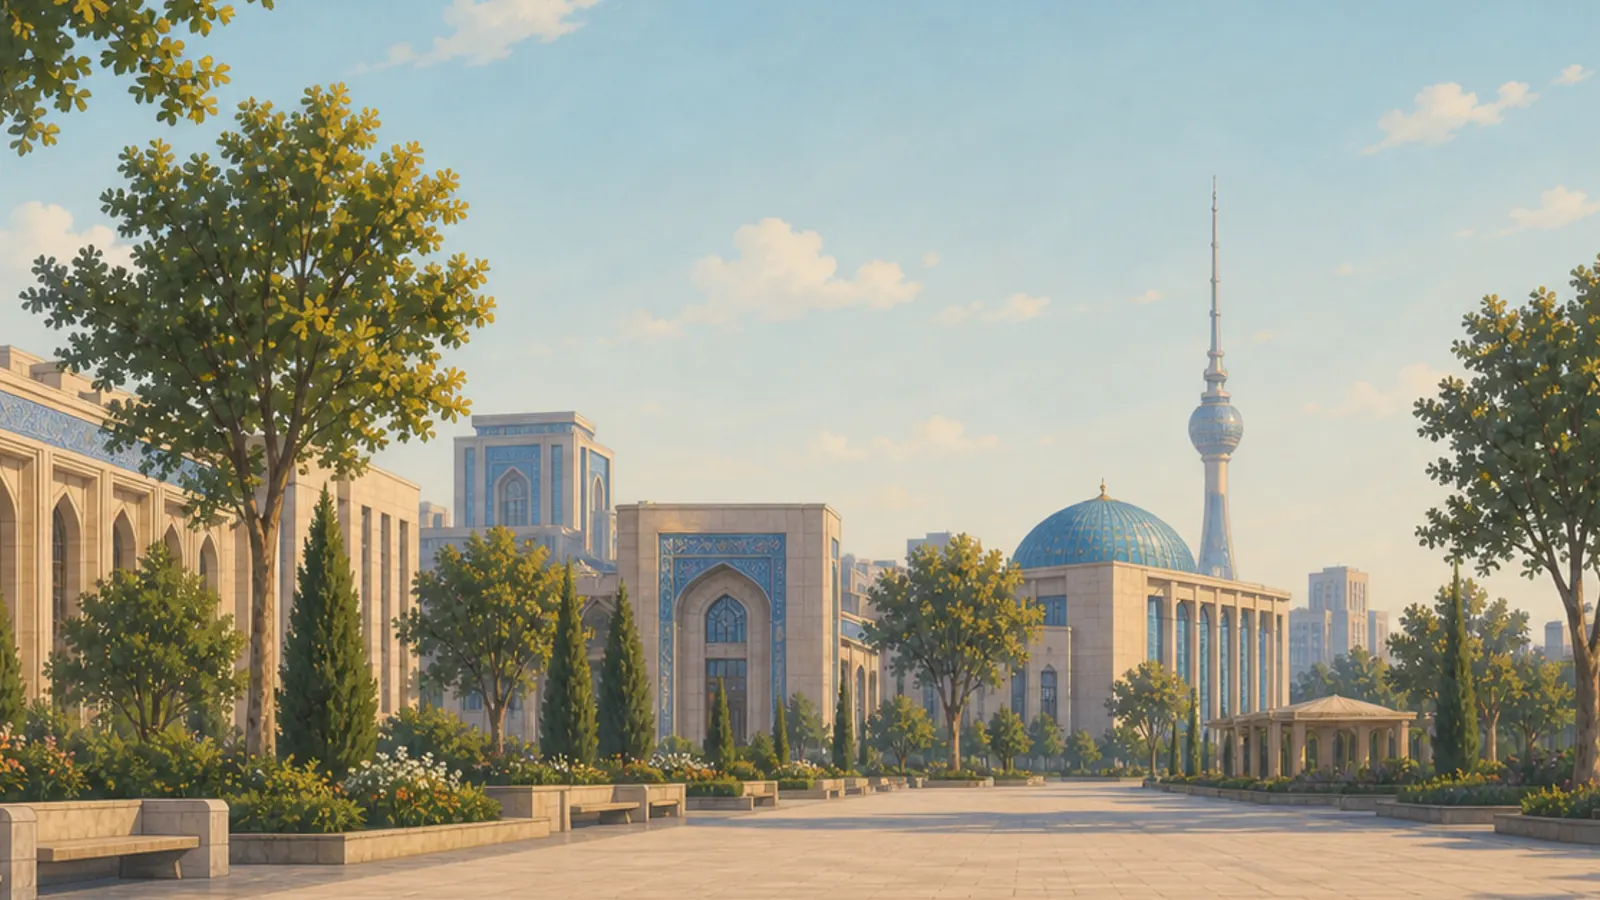
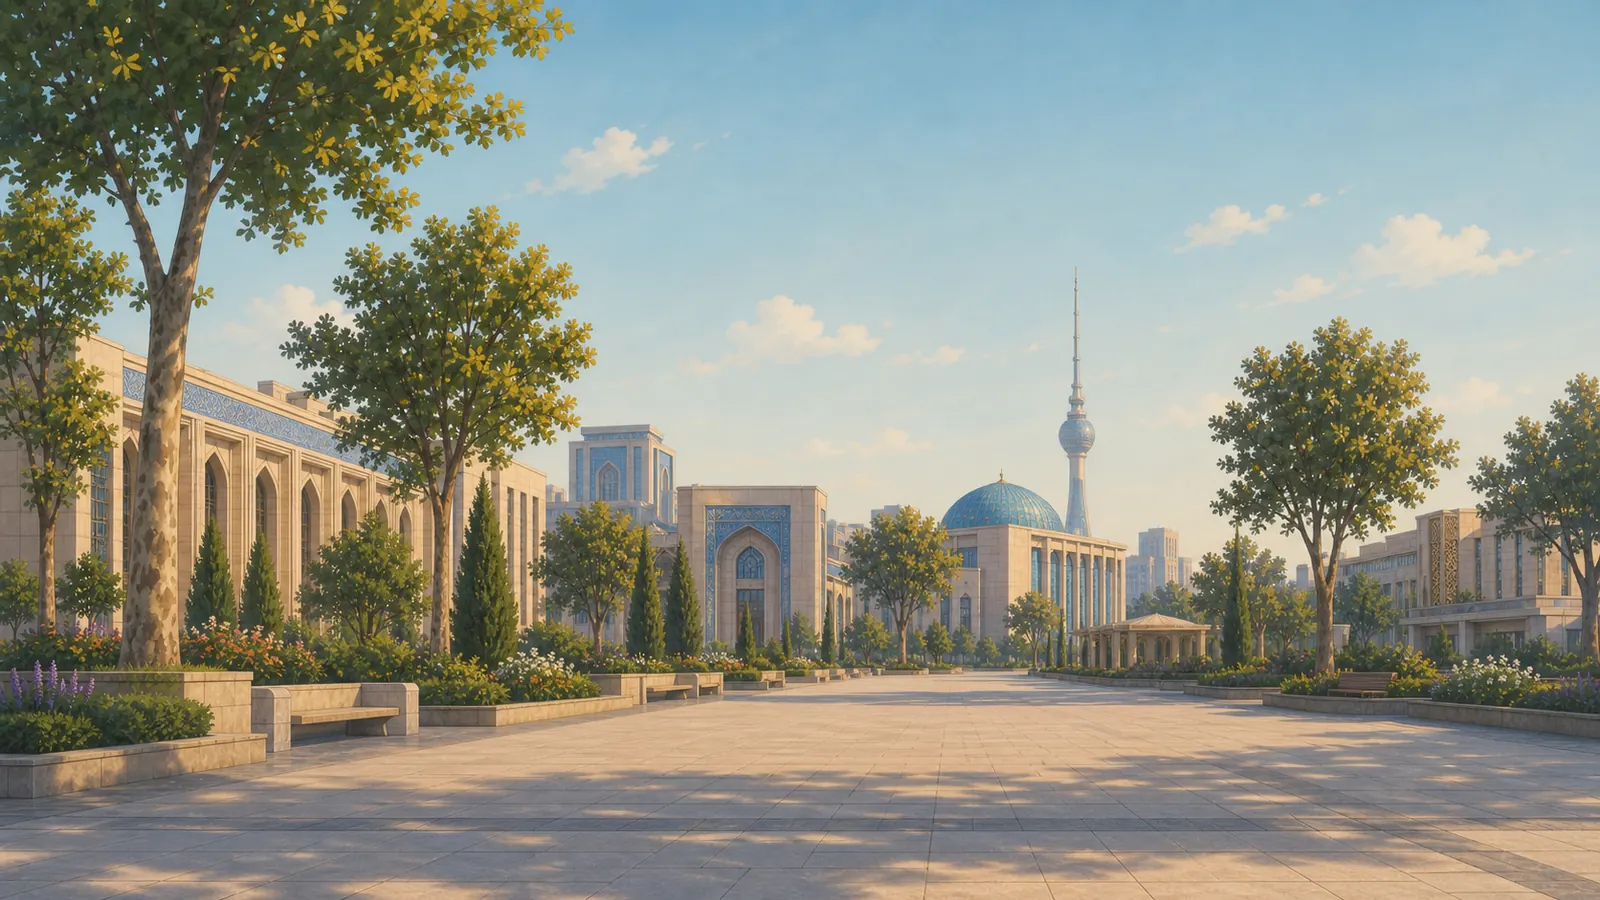
feat: calibrate stage metadata against full city paintings

diff --git a/src/lib/world/stage-layout.test.ts b/src/lib/world/stage-layout.test.ts
@@ -1,0 +1,72 @@
+import { describe, expect, it } from "vitest";
+import { stageSchema, readableCountryPackSchema } from "../content/schema";
+import { registeredCountryPacks } from "@/content/countries/registry";
+import { stageLayout, blendStageLayout } from "./stage-layout";
+
+const defaults = stageSchema.parse({});
+
+describe("stage layout", () => {
+  it.each([[320, 568], [390, 844], [1440, 900], [2560, 1080]])("anchors %i × %i without vertical centering", (w, h) => {
+    for (const [iw, ih] of [[3600, 1200], [1600, 900], [1600, 1067]]) {
+      const result = stageLayout(w, h, iw, ih, defaults);
+      expect(result.imageScale * iw).toBeCloseTo(w);
+      expect(result.imageX).toBe(0);
+      expect(result.imageY + defaults.groundLineY * ih * result.imageScale).toBeCloseTo(result.groundY);
+      expect(result.groundY).toBeCloseTo(h * (w <= 600 ? 0.8 : 0.86));
+      expect(result.personHeightPx).toBeCloseTo(defaults.personHeightFrac * ih * result.imageScale);
+      expect(result.pxPerMetre * 1.78).toBeCloseTo(result.personHeightPx);
+    }
+  });
+  it("leaves sky space above a short panorama, including at the mobile boundary", () => {
+    expect(stageLayout(390, 844, 3600, 1200, defaults).imageY).toBeGreaterThan(500);
+    expect(stageLayout(600, 900, 1600, 900, defaults).groundY).toBe(720);
+    expect(stageLayout(601, 900, 1600, 900, defaults).groundY).toBe(774);
+  });
+  it("rejects unmeasured or invalid dimensions", () => {
+    for (const value of [0, -1, NaN, Infinity]) {
+      expect(() => stageLayout(value, 900, 1600, 900, defaults)).toThrow(RangeError);
+      expect(() => stageLayout(1440, 900, 1600, value, defaults)).toThrow(RangeError);
+    }
+  });
+  it("blends from the displayed layout for exactly 400 ms with consistent ground and scale", () => {
+    const from = stageLayout(390, 844, 1600, 900, defaults);
+    const to = stageLayout(1440, 900, 1600, 1067, stageSchema.parse({personHeightFrac: 0.2}));
+    expect(blendStageLayout(from, to, -10).personHeightPx).toBe(from.personHeightPx);
+    expect(blendStageLayout(from, to, 200).personHeightPx).toBeCloseTo((from.personHeightPx + to.personHeightPx) / 2);
+    for (const ms of [0, 100, 200, 399, 400, 500]) {
+      const frame = blendStageLayout(from, to, ms);
+      expect(frame.imageY - to.imageY).toBeCloseTo(frame.groundY - to.groundY);
+      expect(frame.pxPerMetre * 1.78).toBeCloseTo(frame.personHeightPx);
+    }
+    expect(blendStageLayout(from, to, 400)).toEqual(to);
+    expect(blendStageLayout(from, to, 800)).toEqual(to);
+    // A second transition starts from the current interpolated height, not an old target.
+    const mid = blendStageLayout(from, to, 150);
+    expect(blendStageLayout(mid, from, 0).personHeightPx).toBe(mid.personHeightPx);
+  });
+});
+
+describe("backward compatible stage metadata", () => {
+  it("applies every specified default, including partial nested blocks", () => {
+    expect(defaults).toEqual({ groundLineY: 0.82, horizonY: 0.55, personHeightFrac: 0.28,
+      walkableX: [0.15, 0.85], palette: ["#b9a27a", "#6f7a5a", "#2e3a4f"], lightDir: "left",
+      parallax: {far: 0.35, mid: 0.7, near: 1.25} });
+    expect(stageSchema.parse({parallax: {mid: 0.6}}).parallax).toEqual({far: 0.35, mid: 0.6, near: 1.25});
+  });
+  it("validates all 16 packs with and without stage blocks", () => {
+    const packs = registeredCountryPacks();
+    expect(packs).toHaveLength(16);
+    for (const pack of packs) {
+      expect(readableCountryPackSchema.safeParse(pack).success).toBe(true);
+      const legacy = JSON.parse(JSON.stringify(pack));
+      for (const zone of legacy.route.zones) delete zone.stage;
+      const parsed = readableCountryPackSchema.parse(legacy);
+      if (parsed.schemaVersion === 1) throw new Error("Expected a route pack");
+      expect(parsed.route.zones.every((zone) => JSON.stringify(zone.stage) === JSON.stringify(defaults))).toBe(true);
+    }
+  });
+  it.each([{groundLineY: 1.1}, {personHeightFrac: 0}, {walkableX: [0.9, 0.1]},
+    {palette: ["red", "blue", "black"]}, {parallax: {near: -1}}, {lightDir: "bottom"}])("rejects malformed calibration %j", (value) => {
+    expect(stageSchema.safeParse(value).success).toBe(false);
+  });
+});

diff --git a/src/content/countries/tbilisi.v1.ts b/src/content/countries/tbilisi.v1.ts
@@ -3,11 +3,11 @@ import { createPhase2CountryPack } from "./phase2-factory";
 export const tbilisiCountryPackV1 = createPhase2CountryPack({
   packId: "tbilisi-v1", countryCode: "GE", countryName: "Georgia", cityName: "Tbilisi", timeZone: "Asia/Tbilisi",
   zones: [
-    { id: "rustaveli-arrival", label: "Rustaveli Avenue", weather: "clear", palette: ["#70b2c5", "#e1c291", "#52646d"] },
-    { id: "balcony-lanes", label: "Wooden balcony lanes", weather: "breeze", palette: ["#82b8bc", "#dfbd89", "#755947"] },
-    { id: "dry-bridge", label: "Dry Bridge market", weather: "haze", palette: ["#75a7b3", "#d8a365", "#4b5558"] },
-    { id: "bakery-courtyard", label: "Bakery courtyard", weather: "golden", palette: ["#92b3aa", "#e4a15e", "#8b4d39"] },
-    { id: "abanotubani-evening", label: "Abanotubani and Narikala", weather: "evening", palette: ["#4f6688", "#c87c67", "#2c3b55"] },
+    { id: "rustaveli-arrival", label: "Rustaveli Avenue", weather: "clear", palette: ["#70b2c5", "#e1c291", "#52646d"], stage: { groundLineY: 0.84, horizonY: 0.70, personHeightFrac: 0.20, palette: ["#b7a48b", "#677851", "#465963"], lightDir: "left" } },
+    { id: "balcony-lanes", label: "Wooden balcony lanes", weather: "breeze", palette: ["#82b8bc", "#dfbd89", "#755947"], stage: { groundLineY: 0.89, horizonY: 0.66, personHeightFrac: 0.21, palette: ["#c4ad88", "#74805a", "#5d605d"], lightDir: "left" } },
+    { id: "dry-bridge", label: "Dry Bridge market", weather: "haze", palette: ["#75a7b3", "#d8a365", "#4b5558"], stage: { groundLineY: 0.85, horizonY: 0.62, personHeightFrac: 0.23, walkableX: [0.35, 0.75], palette: ["#bba079", "#77714c", "#454c48"], lightDir: "left" } },
+    { id: "bakery-courtyard", label: "Bakery courtyard", weather: "golden", palette: ["#92b3aa", "#e4a15e", "#8b4d39"], stage: { groundLineY: 0.87, horizonY: 0.60, personHeightFrac: 0.24, palette: ["#b79772", "#757344", "#4d4840"], lightDir: "left" } },
+    { id: "abanotubani-evening", label: "Abanotubani and Narikala", weather: "evening", palette: ["#4f6688", "#c87c67", "#2c3b55"], stage: { groundLineY: 0.88, horizonY: 0.61, personHeightFrac: 0.20, palette: ["#ad8069", "#796c65", "#454653"], lightDir: "left" } },
   ],
   encounter: { npcId: "tbilisi-host", locationLabel: "A carved balcony", phrase: { original: "კეთილი იყოს თქვენი მობრძანება", transliteration: "Ketili iqos tkveni mobrdzaneba", gloss: "Welcome", pronunciation: "keh-TEE-lee EE-khos tkveh-nee mobr-dzah-NEH-bah" }, exchange: ["Ketili iqos tkveni mobrdzaneba — welcome.", "Every balcony seems to be telling a story.", "Stay long enough and someone will tell you one.", "I have a few streets left to listen."] },
   postcardTitle: "Tbilisi in warm light", postcardCopy: "We followed Tbilisi’s balconies and sulfur-bath domes toward Narikala.",

diff --git a/src/content/countries/tashkent.v4.ts b/src/content/countries/tashkent.v4.ts
@@ -7,11 +7,11 @@ export const tashkentCountryPackV4 = createPhase2CountryPack({
   cityName: "Tashkent",
   timeZone: "Asia/Tashkent",
   zones: [
-    { id: "arrival-boulevard", label: "Arrival boulevard", weather: "clear", palette: ["#70b6ca", "#d9c68d", "#315c63"] },
-    { id: "mahalla-street", label: "Mahalla street", weather: "breeze", palette: ["#81bcc5", "#e5c58a", "#3f675f"] },
-    { id: "chorsu-market", label: "Chorsu market", weather: "haze", palette: ["#78aeb8", "#e0b66f", "#285b66"] },
-    { id: "plov-cafe", label: "Plov café", weather: "golden", palette: ["#91b9b0", "#edae64", "#995b3d"] },
-    { id: "evening-landmark", label: "Hazrati Imam at dusk", weather: "evening", palette: ["#516b8d", "#d38a66", "#243653"] },
+    { id: "arrival-boulevard", label: "Arrival boulevard", weather: "clear", palette: ["#70b6ca", "#d9c68d", "#315c63"], stage: { groundLineY: 0.86, horizonY: 0.73, personHeightFrac: 0.21, palette: ["#c4b394", "#79825c", "#566879"], lightDir: "left" } },
+    { id: "mahalla-street", label: "Mahalla street", weather: "breeze", palette: ["#81bcc5", "#e5c58a", "#3f675f"], stage: { groundLineY: 0.87, horizonY: 0.66, personHeightFrac: 0.18, palette: ["#c7b38f", "#7d855b", "#536579"], lightDir: "left" } },
+    { id: "chorsu-market", label: "Chorsu market", weather: "haze", palette: ["#78aeb8", "#e0b66f", "#285b66"], stage: { groundLineY: 0.85, horizonY: 0.64, personHeightFrac: 0.21, palette: ["#c2ac84", "#78805a", "#4f6575"], lightDir: "left" } },
+    { id: "plov-cafe", label: "Plov café", weather: "golden", palette: ["#91b9b0", "#edae64", "#995b3d"], stage: { groundLineY: 0.85, horizonY: 0.60, personHeightFrac: 0.19, palette: ["#c4a87f", "#7f8054", "#59677a"], lightDir: "left" } },
+    { id: "evening-landmark", label: "Hazrati Imam at dusk", weather: "evening", palette: ["#516b8d", "#d38a66", "#243653"], stage: { groundLineY: 0.88, horizonY: 0.64, personHeightFrac: 0.20, palette: ["#ad8a76", "#7e6b61", "#444e69"], lightDir: "right" } },
   ],
   encounter: {
     npcId: "tashkent-host",

diff --git a/src/lib/world/stage-layout.ts b/src/lib/world/stage-layout.ts
@@ -1,0 +1,51 @@
+import type { ZoneStage } from "../content/schema";
+
+export type StageLayout = {
+  imageScale: number;
+  imageX: number;
+  imageY: number;
+  groundY: number;
+  personHeightPx: number;
+  pxPerMetre: number;
+};
+
+/** Image fractions become CSS pixels. Width-fit deliberately never crops vertically. */
+export function stageLayout(
+  viewportW: number, viewportH: number, imageW: number, imageH: number, stage: ZoneStage,
+): StageLayout {
+  if (![viewportW, viewportH, imageW, imageH].every((n) => Number.isFinite(n) && n > 0)) {
+    throw new RangeError("Stage dimensions must be finite and positive");
+  }
+  const imageScale = viewportW / imageW;
+  const groundY = viewportH * (viewportW <= 600 ? 0.80 : 0.86);
+  const personHeightPx = stage.personHeightFrac * imageH * imageScale;
+  return {
+    imageScale,
+    imageX: 0,
+    imageY: groundY - stage.groundLineY * imageH * imageScale,
+    groundY,
+    personHeightPx,
+    pxPerMetre: personHeightPx / 1.78,
+  };
+}
+
+/** Only presentation changes: no route time, distance or authoritative inputs change. */
+export function blendStageLayout(from: StageLayout, to: StageLayout, elapsedMs: number): StageLayout {
+  const t = Math.min(1, Math.max(0, elapsedMs / 400));
+  const weight = t * t * (3 - 2 * t);
+  const groundY = from.groundY + (to.groundY - from.groundY) * weight;
+  const personHeightPx = from.personHeightPx + (to.personHeightPx - from.personHeightPx) * weight;
+  return { ...to, groundY, imageY: to.imageY + groundY - to.groundY, personHeightPx, pxPerMetre: personHeightPx / 1.78 };
+}
+
+/** Published by the world that actually drew this zone, never by a predicted zone. */
+export type StageFrame = {
+  assetVersion: string;
+  zoneId: string;
+  viewportW: number;
+  viewportH: number;
+  imageW: number;
+  imageH: number;
+  stage: ZoneStage;
+  layout: StageLayout;
+};

diff --git a/src/lib/content/schema.ts b/src/lib/content/schema.ts
@@ -183,7 +183,30 @@ export const routePropSchema = z.object({
   message: "maxGap must be greater than or equal to minGap",
 });
 
+export const stageSchema = z.object({
+  groundLineY: z.number().min(0).max(1).default(0.82),
+  horizonY: z.number().min(0).max(1).default(0.55),
+  personHeightFrac: z.number().positive().max(1).default(0.28),
+  walkableX: z.tuple([z.number().min(0).max(1), z.number().min(0).max(1)])
+    .refine(([left, right]) => left < right, "walkableX must be ordered")
+    .default([0.15, 0.85]),
+  palette: z.tuple([
+    z.string().regex(/^#[0-9a-fA-F]{6}$/),
+    z.string().regex(/^#[0-9a-fA-F]{6}$/),
+    z.string().regex(/^#[0-9a-fA-F]{6}$/),
+  ]).default(["#b9a27a", "#6f7a5a", "#2e3a4f"]),
+  lightDir: z.enum(["left", "right", "top"]).default("left"),
+  parallax: z.object({
+    far: z.number().nonnegative().max(3).default(0.35),
+    mid: z.number().nonnegative().max(3).default(0.7),
+    near: z.number().nonnegative().max(3).default(1.25),
+  }).prefault({}),
+});
+
+export type ZoneStage = z.infer<typeof stageSchema>;
+
 export const routeZoneSchema = z.object({
+  stage: stageSchema.prefault({}),
   id: z.string().min(1),
   label: z.string().min(1),
   durationActiveSeconds: z.number().int().min(45).max(21_600),

diff --git a/src/content/countries/phase2-factory.ts b/src/content/countries/phase2-factory.ts
@@ -1,5 +1,6 @@
 import {
   countryPackV3Schema,
+  stageSchema,
   type CountryPackV3,
   type RouteProp,
   type RouteZone,
@@ -127,6 +128,7 @@ function provisional(title: string, url: string, secondTitle?: string, secondUrl
 }
 
 type ZoneDefinition = {
+  stage?: Partial<RouteZone["stage"]>;
   id: string;
   label: string;
   weather: RouteZone["weather"];
@@ -178,6 +180,7 @@ function routeProps(city: string, version: string, zoneId: string): RouteProp[] 
 function routeZone(city: string, version: string, zone: ZoneDefinition, index: number): RouteZone {
   const root = `/scenes/${city}/${version}/zones/${zone.id}`;
   return {
+    stage: stageSchema.parse(zone.stage ?? {}),
     id: zone.id,
     label: zone.label,
     durationActiveSeconds: 150,

diff --git a/docs/stage-calibration.md b/docs/stage-calibration.md
@@ -1,0 +1,43 @@
+# Stage calibration — 2026-09-08
+
+Estimates made by inspecting the existing master PNGs under
+`art/phase2/tbilisi/zones/<zone>/master.png` and
+`art/phase2/tashkent/zones/<zone>-master.png`. Ground means the foreground pavement
+where the actor stands; horizon means the approximate perspective convergence line.
+These are artistic estimates, not a camera survey. Person height estimates use nearby
+ordinary doors (roughly 2.1 m), not monumental archways or distant upper-storey windows.
+
+The served fallback now preserves the whole master, resized proportionally to width
+1600. The former double cover crop removed the pavement, so calibration against that
+crop could not reliably carry over from the masters. No new artwork was generated.
+
+| City / zone | Master dimensions | Ground fraction | Horizon fraction | Person fraction | Approx. person / door height in master px |
+|---|---|---|---|---|---|
+| Tbilisi / rustaveli-arrival | 1536×1024 | .84 | .70 | .20 | 205 / 242 |
+| Tbilisi / balcony-lanes | 1672×941 | .89 | .66 | .21 | 198 / 233 |
+| Tbilisi / dry-bridge | 1537×1023 | .85 | .62 | .23 | 235 / 277 |
+| Tbilisi / bakery-courtyard | 1536×1024 | .87 | .60 | .24 | 246 / 290 |
+| Tbilisi / abanotubani-evening | 1536×1024 | .88 | .61 | .20 | 205 / 242 |
+| Tashkent / arrival-boulevard | 1672×941 | .86 | .73 | .21 | 198 / 233 |
+| Tashkent / mahalla-street | 1672×941 | .87 | .66 | .18 | 169 / 200 |
+| Tashkent / chorsu-market | 1672×941 | .85 | .64 | .21 | 198 / 233 |
+| Tashkent / plov-cafe | 1672×941 | .85 | .60 | .19 | 179 / 211 |
+| Tashkent / evening-landmark | 1672×941 | .88 | .64 | .20 | 188 / 222 |
+
+Door heights above are approximate scale comparisons, not annotations of surveyed
+objects. Dry Bridge has no dependable foreground door; stall/canopy height and the
+adjacent zones provide its scale reference. The bathhouse and monumental squares also
+need ordinary human-scale references rather than treating their large arches as doors.
+Dry Bridge's walking interval is narrowed to [.35,.75] to avoid its outer market stalls.
+Other zones retain [.15,.85]. The three palette colours estimate pavement, foliage and
+shadow tones; evening Tashkent uses right lighting, other zones left. These metadata
+values are stored in the packs, with parallax defaults retained.
+
+To refine: sign in at `/preview` on a Preview deployment, open
+`/api/admin/preview/tbilisi-v1` or `/api/admin/preview/tashkent-v4`, choose a zone, drag
+the three handles, and copy stage JSON into that zone's TypeScript definition. Nothing
+is saved by the editor. Other packs retain schema defaults and are not calibrated here.
+
+The P2 layout uses width fit with fixed viewport ground fractions. On tall mobile
+screens this deliberately exposes sky above the shorter painting. P4's tileable,
+distance-driven panorama and distance-based dissolves remain separate work.
